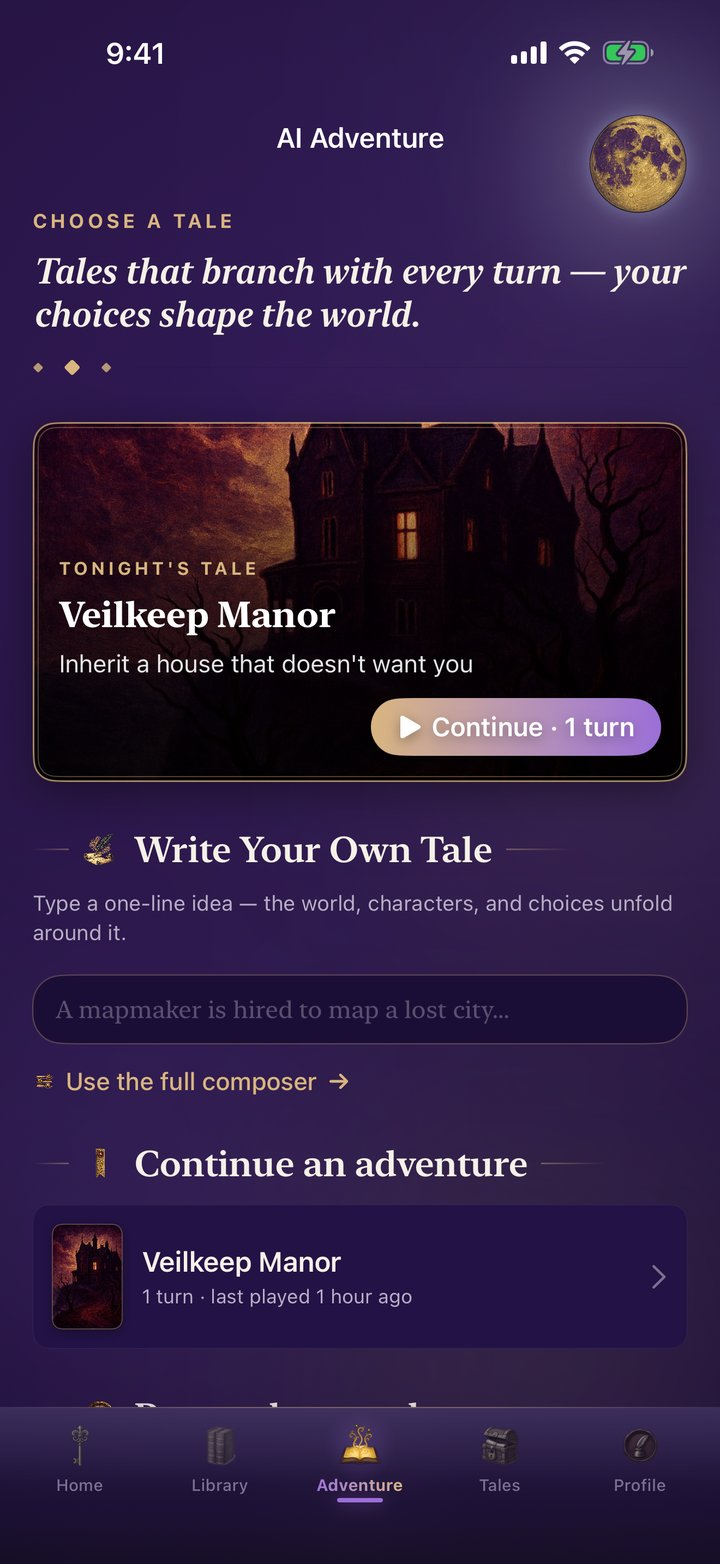
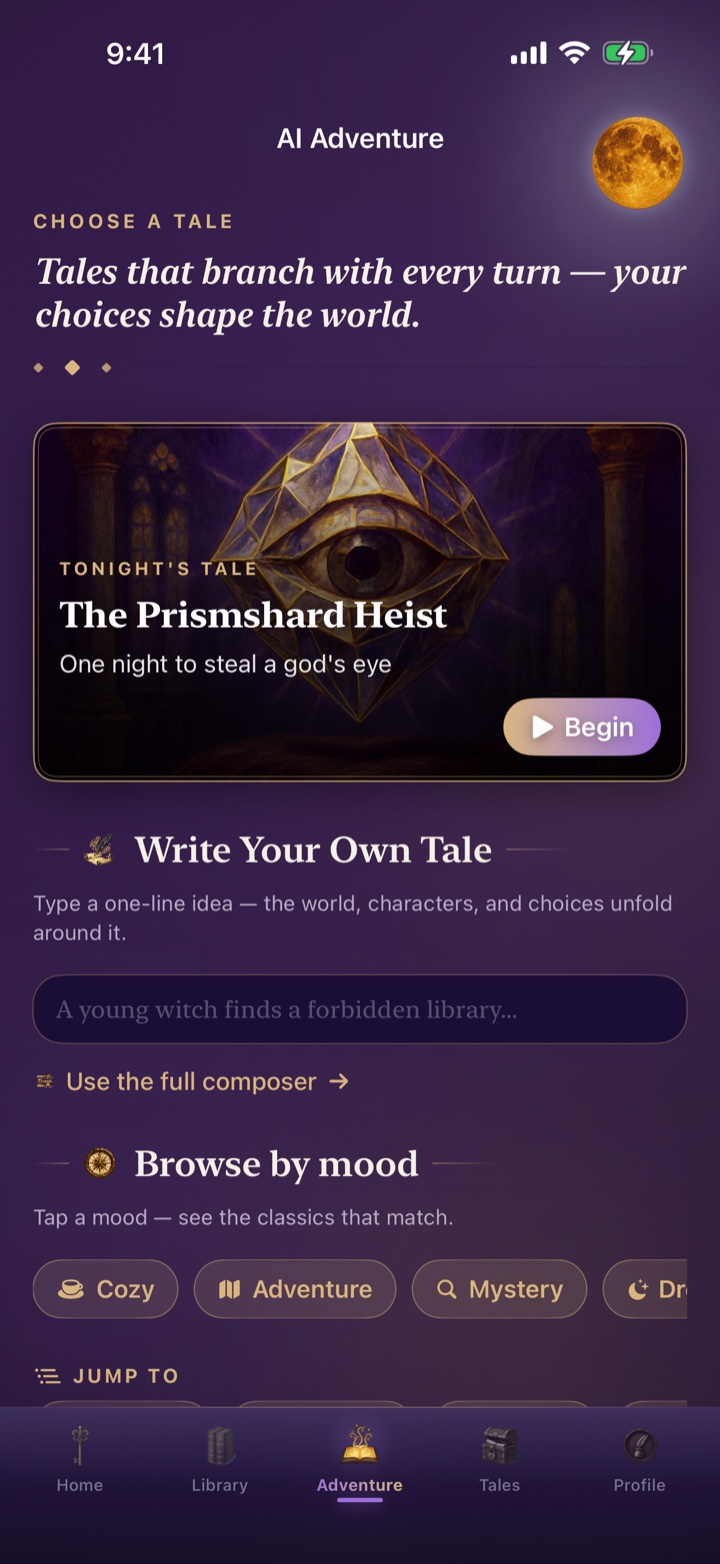
Refresh AI Adventure + Profile screenshots from iPhone 16 Pro Max
Fresh SV_SHOT_DEMO captures (iPhone 16 Pro Max, iOS 26.2):
- adventure-turn / adventure-play: a clean live turn of The Prismshard
  Heist framed from the chapter eyebrow through the AI scene painting
  and opening prose — Pro, no coachmarks, no paywall, dark mode.
- adventure-dark: the AI Adventure picker (Tonight's Tale + mood pills).
- profile-dark: the signed-in Pro 'Alex Rivera' profile.
Also drop the two requested captures into shots/. Update the picker
alt text to the current Tonight's Tale (The Prismshard Heist).

diff --git a/index.html b/index.html
@@ -1310,7 +1310,7 @@
         <div class="screen-card">
           <div class="device-stage">
             <div class="device">
-              <img src="screenshots/adventure-dark.jpg" width="720" height="1564" alt="AI Adventure picker in dark mode — Tonight's Tale: Veilkeep Manor under a full moon, Write Your Own Tale, and Browse by mood" loading="lazy">
+              <img src="screenshots/adventure-dark.jpg" width="720" height="1564" alt="AI Adventure picker in dark mode — Tonight's Tale: The Prismshard Heist under a full moon, Write Your Own Tale, and Browse by mood" loading="lazy">
             </div>
           </div>
           <div class="screen-label">